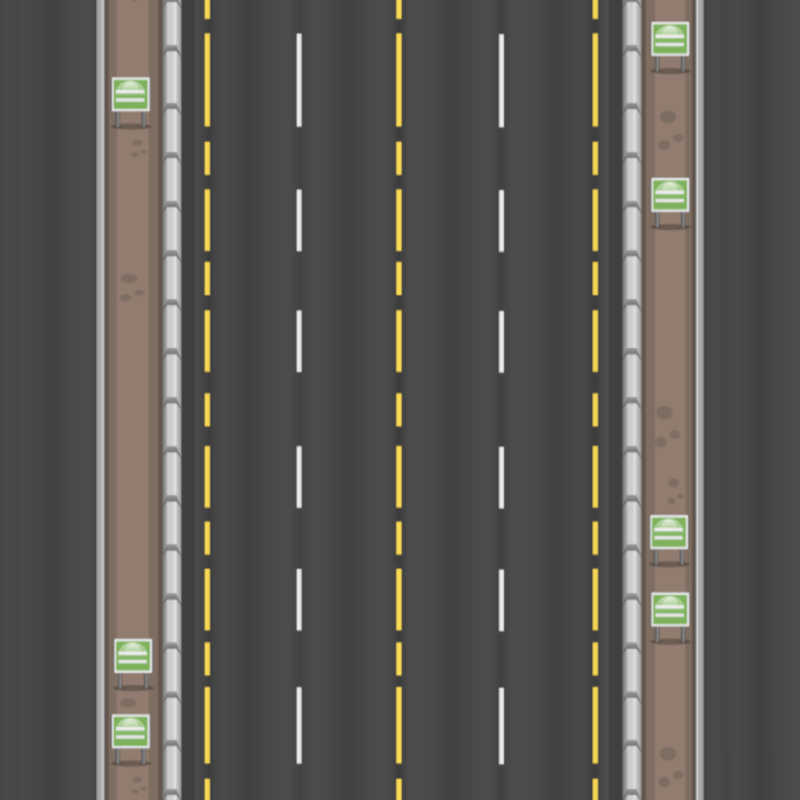
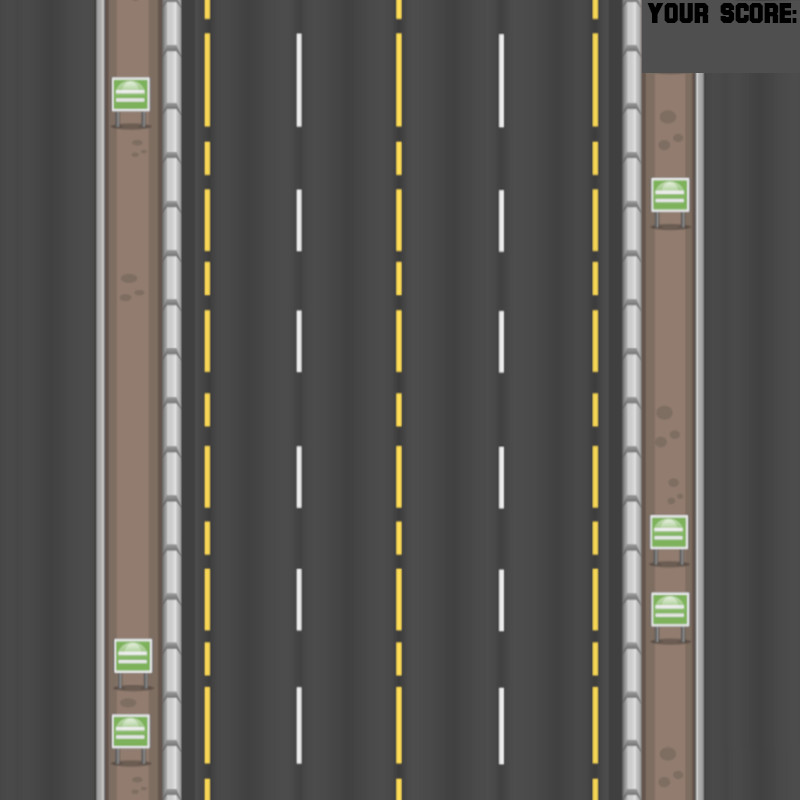
score ja funciona

Changed region(s): [[0.7812, 0.0, 1.0, 0.0938]]

diff --git a/src/Game.java b/src/Game.java
@@ -1,5 +1,6 @@
 import cars.Car;
 import cars.PlayerCar;
+import org.academiadecodigo.simplegraphics.graphics.Text;
 import org.academiadecodigo.simplegraphics.keyboard.Keyboard;
 
 import java.util.ArrayList;
@@ -17,9 +18,13 @@ public class Game {
 
     private PlayerCar playerCar;
     private int timer;
+
+
+
     private int score;
     private int level;
     private Rectangle gameOverScreen;
+    private Text scoreDisplay;
 
 
     public Game(PlayerCar playerCar) {
@@ -27,19 +32,27 @@ public class Game {
         score = 0;
         timer = 0;
         level = 0;
+
+        scoreDisplay = new Text(730,50, Integer.toString(score));
+        scoreDisplay.grow(10,10);
+        scoreDisplay.draw();
+        scoreDisplay.setColor(Color.BLACK);
+
     }
 
     public void playGame() {
-
-
+        
         List<Car> parkedCars = new ArrayList<Car>();
         List<Car> runningCars = new ArrayList<Car>();
+
 
 
         while (!playerCar.isCrashed()) {
             try {
 
+
                 if (timer % 11 == 0) {
+
                     if (parkedCars.size() > 2) {
                         runningCars.add(parkedCars.remove(0));
                     } else {
@@ -59,10 +72,9 @@ public class Game {
 
                     if (runningCars.get(i).getCounter() == 71) {
                         score += 10;
+                        scoreDisplay.setText(Integer.toString(score));
                         level++;
                         runningCars.get(i).setCounter(0);
-                        System.out.println(i);
-
                         carToPark = i;
                     }
                 }

diff --git a/src/Main.java b/src/Main.java
@@ -5,7 +5,7 @@ public class Main {
 
     public static void main(String[] args) {
 
-        /*SimpleGfxGrid grid = new SimpleGfxGrid(8);
+        SimpleGfxGrid grid = new SimpleGfxGrid(8);
         grid.init();
 
         PlayerCar player = new PlayerCar();
@@ -15,7 +15,7 @@ public class Main {
         System.out.println("player car col : " + player.getCol());
 
         game.playGame();
-*/
+/*
         SimpleGfxGrid grid = new SimpleGfxGrid(8);
         grid.init();
         PlayerCar playerCar = new PlayerCar();
@@ -29,7 +29,7 @@ public class Main {
             }
 
 
-        }
+        }*/
     }
 }
 
